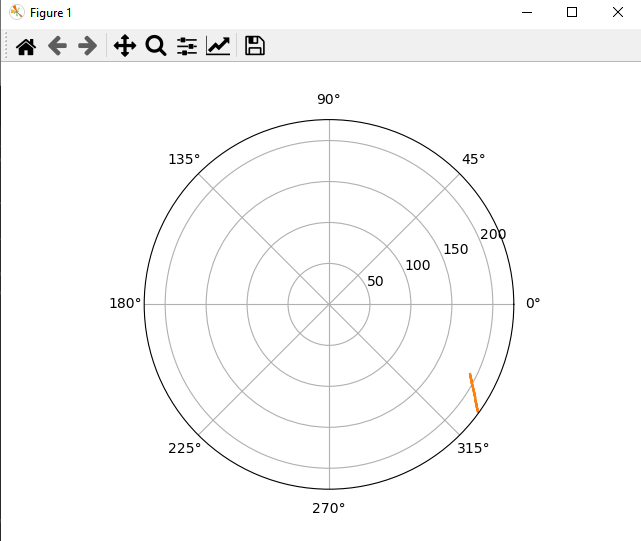
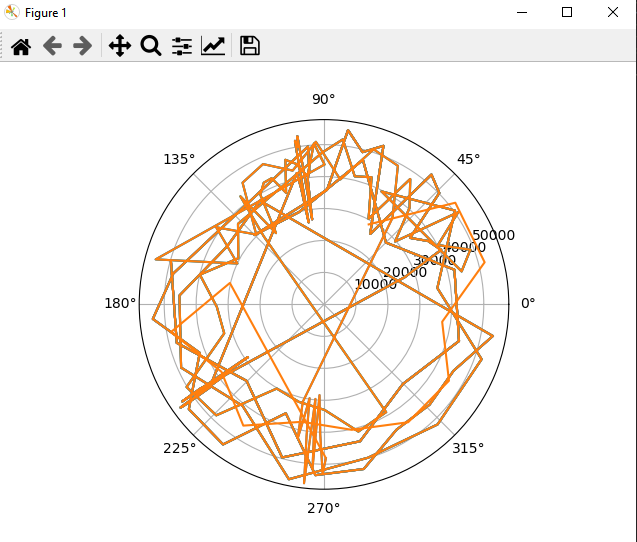
feat: improved fake data generation

Changed region(s): [[0.1491, 0.1479, 0.8352, 0.9464], [0.0, 0.0, 0.4176, 0.1183], [0.9545, 0.0, 0.9843, 0.0296]]

diff --git a/pyLIDAR/example_server.py b/pyLIDAR/example_server.py
@@ -1,8 +1,5 @@
 """A minimal test server to simulate LD06 data stream."""
 
-# Derived from
-# https://stackoverflow.com/questions/57925492/how-to-listen-continuously-to-a-socket-for-data-in-python
-
 import signal
 import socket
 import sys
@@ -10,6 +7,8 @@ import threading
 import time
 from types import FrameType
 from typing import Optional, Tuple
+
+from read_data import Point, Reading
 
 SAMPLE: bytes = bytes.fromhex(
     (
@@ -40,16 +39,62 @@ HOST: str = "127.0.0.1"
 PORT: int = 8000  # local port (not external port)
 
 
+def generate_Reading() -> Reading:
+    from random import randint
+
+    start_angle = randint(0, 30_000)
+    return Reading(
+        radar_speed=randint(1_000, 2_500),
+        start_angle=start_angle,
+        end_angle=start_angle + 5085,
+        timestamp=randint(1_000, 6_000),
+        points=[
+            Point(
+                distance=randint(50, 300),
+                angle=start_angle + randint(0, 5_000),
+                confidence=randint(100, 220),
+            )
+            for _ in range(0, 12)
+        ],
+    )
+
+
+def convert_chunk(two_ints: int) -> str:
+    hex_str = two_ints.to_bytes(2, byteorder="big").hex()
+    final_string = hex_str[2:] + hex_str[:2]
+    return final_string
+
+
+def convert_reading_to_hex(data: Reading) -> str:
+    radar_str = convert_chunk(data.radar_speed)
+    start_str = convert_chunk(data.start_angle)
+    end_str = convert_chunk(data.end_angle)
+    time_str = convert_chunk(data.timestamp)
+
+    point_list = [
+        convert_chunk(each.distance)
+        + each.confidence.to_bytes(1, byteorder="big").hex()
+        for each in data.points
+    ]
+
+    final_str = (
+        "54" + radar_str + start_str + "".join(point_list) + end_str + time_str + "1a50"
+    )
+
+    return final_str
+
+
 def handle_client(conn: socket.socket, addr: Tuple[str, str]) -> None:
     print("Entered")
-    # _ = conn.recv(1024)
-    # print("Entered and received")
     try:
-        # print("Trying")
         while True:
-            conn.send(SAMPLE)
-            # print("Sent")
+
+            new_readings = [generate_Reading() for _ in range(0, 4)]
+            new_hex = "".join([convert_reading_to_hex(each) for each in new_readings])
+            print(new_hex[0:12])
+            conn.send(bytes.fromhex(new_hex))
             time.sleep(1)
+
     except BrokenPipeError:
         print("[DEBUG] addr:", addr, "Connection closed by client?")
     except Exception as ex:
@@ -72,6 +117,9 @@ def signal_handler(signal: int, frame: Optional[FrameType]) -> None:
 signal.signal(signal.SIGINT, signal_handler)
 
 try:
+    # Derived from
+    # https://stackoverflow.com/questions/57925492/how-to-listen-continuously-to-a-socket-for-data-in-python
+
     # --- create socket ---
 
     print("[DEBUG] create socket")
